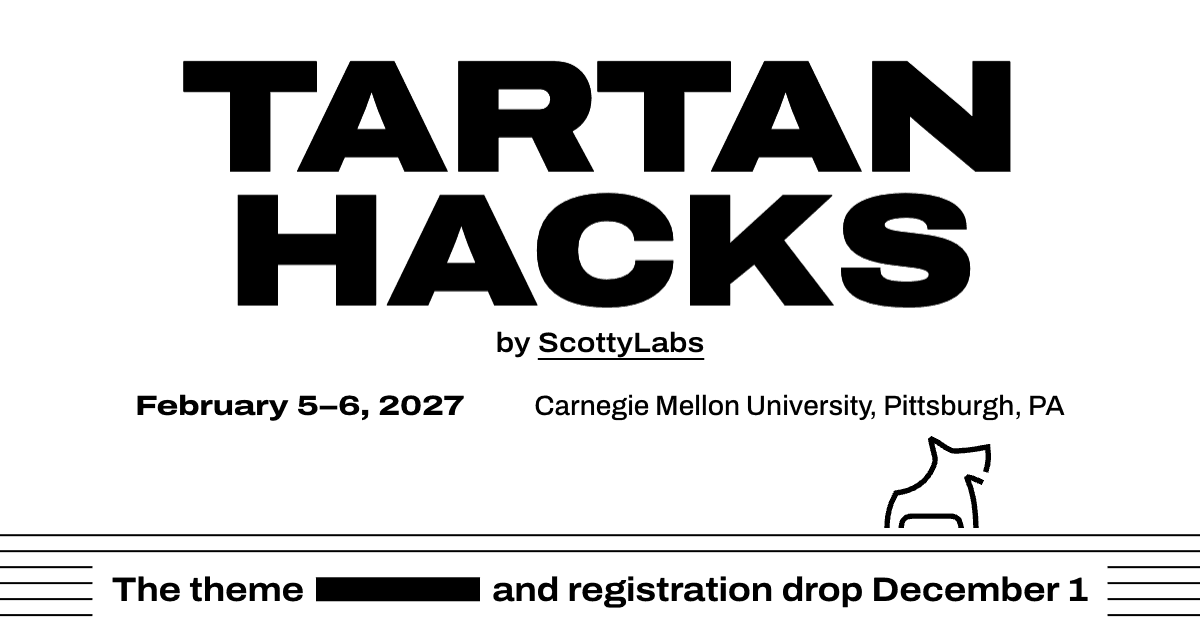
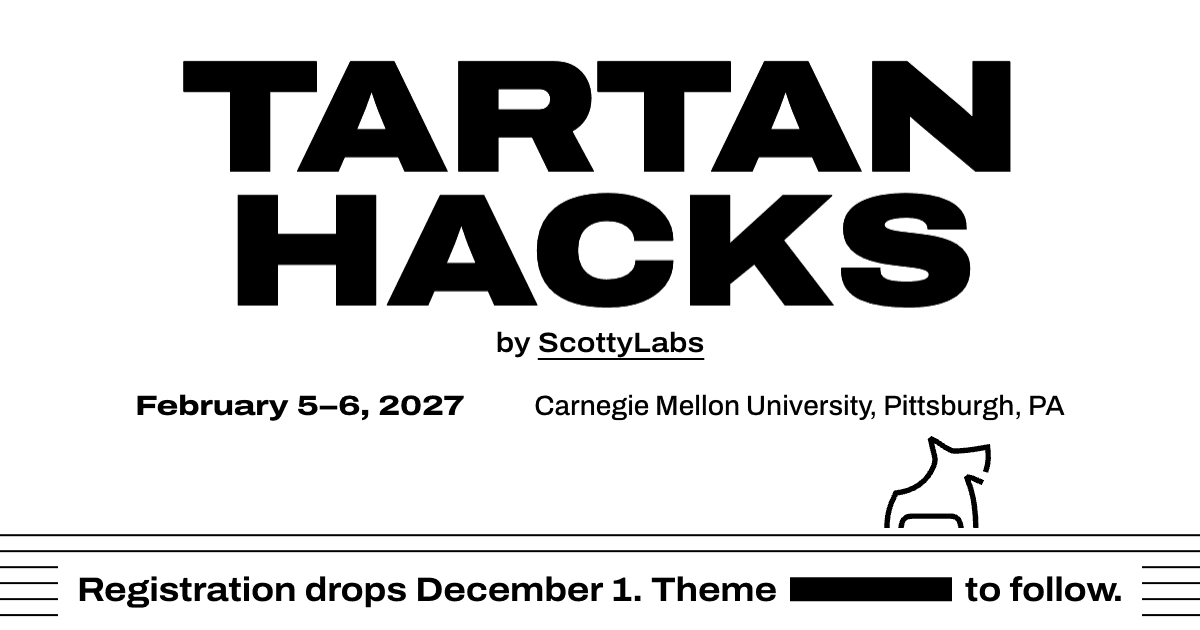
Registration opens December 1; the theme follows later
The theme is no longer announced the same day as registration opens.
The lead now reads "Registration drops December 1. Theme ▇ to follow.",
the countdown counts to registration, and the description, link
previews and share image say the same.

Also brings in Bark dressing the part for the two sign-up links.

Changed region(s): [[0.0617, 0.8746, 0.9558, 0.9952]]

diff --git a/index.html b/index.html
@@ -6,7 +6,7 @@
     <title>TartanHacks 2027: Carnegie Mellon’s hackathon, February 5–6</title>
     <meta
       name="description"
-      content="TartanHacks is Pittsburgh’s largest hackathon, hosted by ScottyLabs at Carnegie Mellon University. February 5–6, 2027. Pre-register now; the theme and registration drop December 1."
+      content="TartanHacks is Pittsburgh’s largest hackathon, hosted by ScottyLabs at Carnegie Mellon University, February 5–6, 2027. Registration opens December 1; the theme follows."
     />
     <link rel="canonical" href="%VITE_SITE_URL%/" />
     <meta name="theme-color" content="#ffffff" />
@@ -19,7 +19,7 @@
     <meta property="og:title" content="TartanHacks 2027 by ScottyLabs" />
     <meta
       property="og:description"
-      content="Pittsburgh’s largest hackathon. February 5–6, 2027, at Carnegie Mellon University. The theme and registration drop December 1."
+      content="Pittsburgh’s largest hackathon. February 5–6, 2027, at Carnegie Mellon University. Registration opens December 1, with the theme to follow."
     />
     <meta property="og:url" content="%VITE_SITE_URL%/" />
     <meta property="og:image" content="%VITE_SITE_URL%/og.png" />
@@ -143,8 +143,13 @@
           <section class="drop" aria-labelledby="drop-lead">
             <p class="drop__lead" id="drop-lead">
               <span class="plate plate--lead" data-snap>
-                The theme <span class="redacted" aria-hidden="true"></span> and registration drop
-                <time id="drop-time" datetime="2026-12-01T00:00:00-05:00">December 1</time>
+                <span class="drop__part"
+                  >Registration drops
+                  <time id="drop-time" datetime="2026-12-01T00:00:00-05:00">December 1</time>.</span
+                >
+                <span class="drop__part"
+                  >Theme <span class="redacted" aria-hidden="true"></span> to follow.</span
+                >
               </span>
             </p>
             <div class="countdown" id="countdown" data-snap role="timer" aria-live="off" hidden>

diff --git a/src/countdown.test.ts b/src/countdown.test.ts
@@ -54,14 +54,14 @@ test('pads to two digits and keeps longer day counts whole', () => {
 test('describes the wait in words, with correct singulars', () => {
   assert.equal(
     describe({ days: 1, hours: 1, minutes: 0, seconds: 0, done: false }),
-    '1 day and 1 hour until the theme and registration drop.',
+    '1 day and 1 hour until registration opens.',
   );
   assert.equal(
     describe({ days: 17, hours: 4, minutes: 0, seconds: 0, done: false }),
-    '17 days and 4 hours until the theme and registration drop.',
+    '17 days and 4 hours until registration opens.',
   );
   assert.equal(
     describe({ days: 0, hours: 0, minutes: 0, seconds: 0, done: true }),
-    'The theme and registration have dropped.',
+    'Registration is open.',
   );
 });

diff --git a/src/styles/sheet.css b/src/styles/sheet.css
@@ -253,6 +253,11 @@
   letter-spacing: -0.008em;
 }
 
+/* The lead's two sentences break between them, never inside one. */
+.drop__part {
+  display: inline-block;
+}
+
 /* The theme's name, struck out with the heaviest line the text can carry. */
 .redacted {
   display: inline-block;
@@ -393,10 +398,15 @@
   }
 }
 
-/* The narrowest phones: the countdown gives up some of its side padding. */
+/* The narrowest phones: the countdown gives up some of its side padding,
+   and the lead is set small enough to keep each sentence on one line. */
 @media (max-width: 340px) {
   .countdown__unit {
     padding-inline: calc(var(--pitch) * 1.1);
+  }
+
+  .plate--lead {
+    font-size: 15px;
   }
 }
 

diff --git a/src/countdown.ts b/src/countdown.ts
@@ -33,10 +33,10 @@ export function pad(value: number): string {
 
 /** A sentence for assistive technology, which should not hear a ticking clock. */
 export function describe(r: Remaining): string {
-  if (r.done) return 'The theme and registration have dropped.';
+  if (r.done) return 'Registration is open.';
   const days = `${r.days} ${r.days === 1 ? 'day' : 'days'}`;
   const hours = `${r.hours} ${r.hours === 1 ? 'hour' : 'hours'}`;
-  return `${days} and ${hours} until the theme and registration drop.`;
+  return `${days} and ${hours} until registration opens.`;
 }
 
 const UNITS = ['days', 'hours', 'minutes', 'seconds'] as const;

diff --git a/README.md b/README.md
@@ -2,15 +2,15 @@
 
 The teaser site for TartanHacks 2027: February 5–6 at Carnegie Mellon University, Pittsburgh, hosted by [ScottyLabs](https://scottylabs.org).
 
-It does three jobs until the theme and registration drop on December 1:
+It does three jobs until registration opens on December 1, with the theme announced after that:
 
 - says when and where,
-- counts down to the drop,
+- counts down to registration opening,
 - sends students to the pre-registration form and judges to the judge interest form.
 
 Bark, the ScottyLabs dog, lives on it too: he walks along the top of the sign-up band after your pointer, and jumps when you press him.
 
-On December 1 this site is replaced by the full event site.
+Later it is replaced by the full event site, made by the ScottyLabs design committee.
 
 ## Run it
 
@@ -38,7 +38,7 @@ Everything a visitor reads is in `index.html`.
 |---|---|
 | Dates, place, copy | `index.html` |
 | Form links | the two `<a class="band__half">` links in `index.html` |
-| The drop moment | the `datetime` on `<time id="drop-time">` in `index.html` (midnight Eastern, December 1, 2026) |
+| When registration opens | the `datetime` on `<time id="drop-time">` in `index.html` (midnight Eastern, December 1, 2026) |
 | The site's public address | `VITE_SITE_URL` in `.env`, used for the share image |
 | Share image | `public/og.png` (1200 × 630) |
 | Search listing | the `<title>`, the description and the event data (`application/ld+json`) in the head of `index.html` |
@@ -97,7 +97,7 @@ The page works at every level of support:
 |---|---|
 | Reduced motion requested | The finished sheet, drawn once, with no entrance. Bark stands still. |
 | No WebGL 2 | A solid wordmark on white, CSS rules below the band. The countdown still runs. |
-| No JavaScript | A solid wordmark on white, CSS rules below the band, and the drop date in text. |
+| No JavaScript | A solid wordmark on white, CSS rules below the band, and the registration date in text. |
 
 ## Deploy
 
